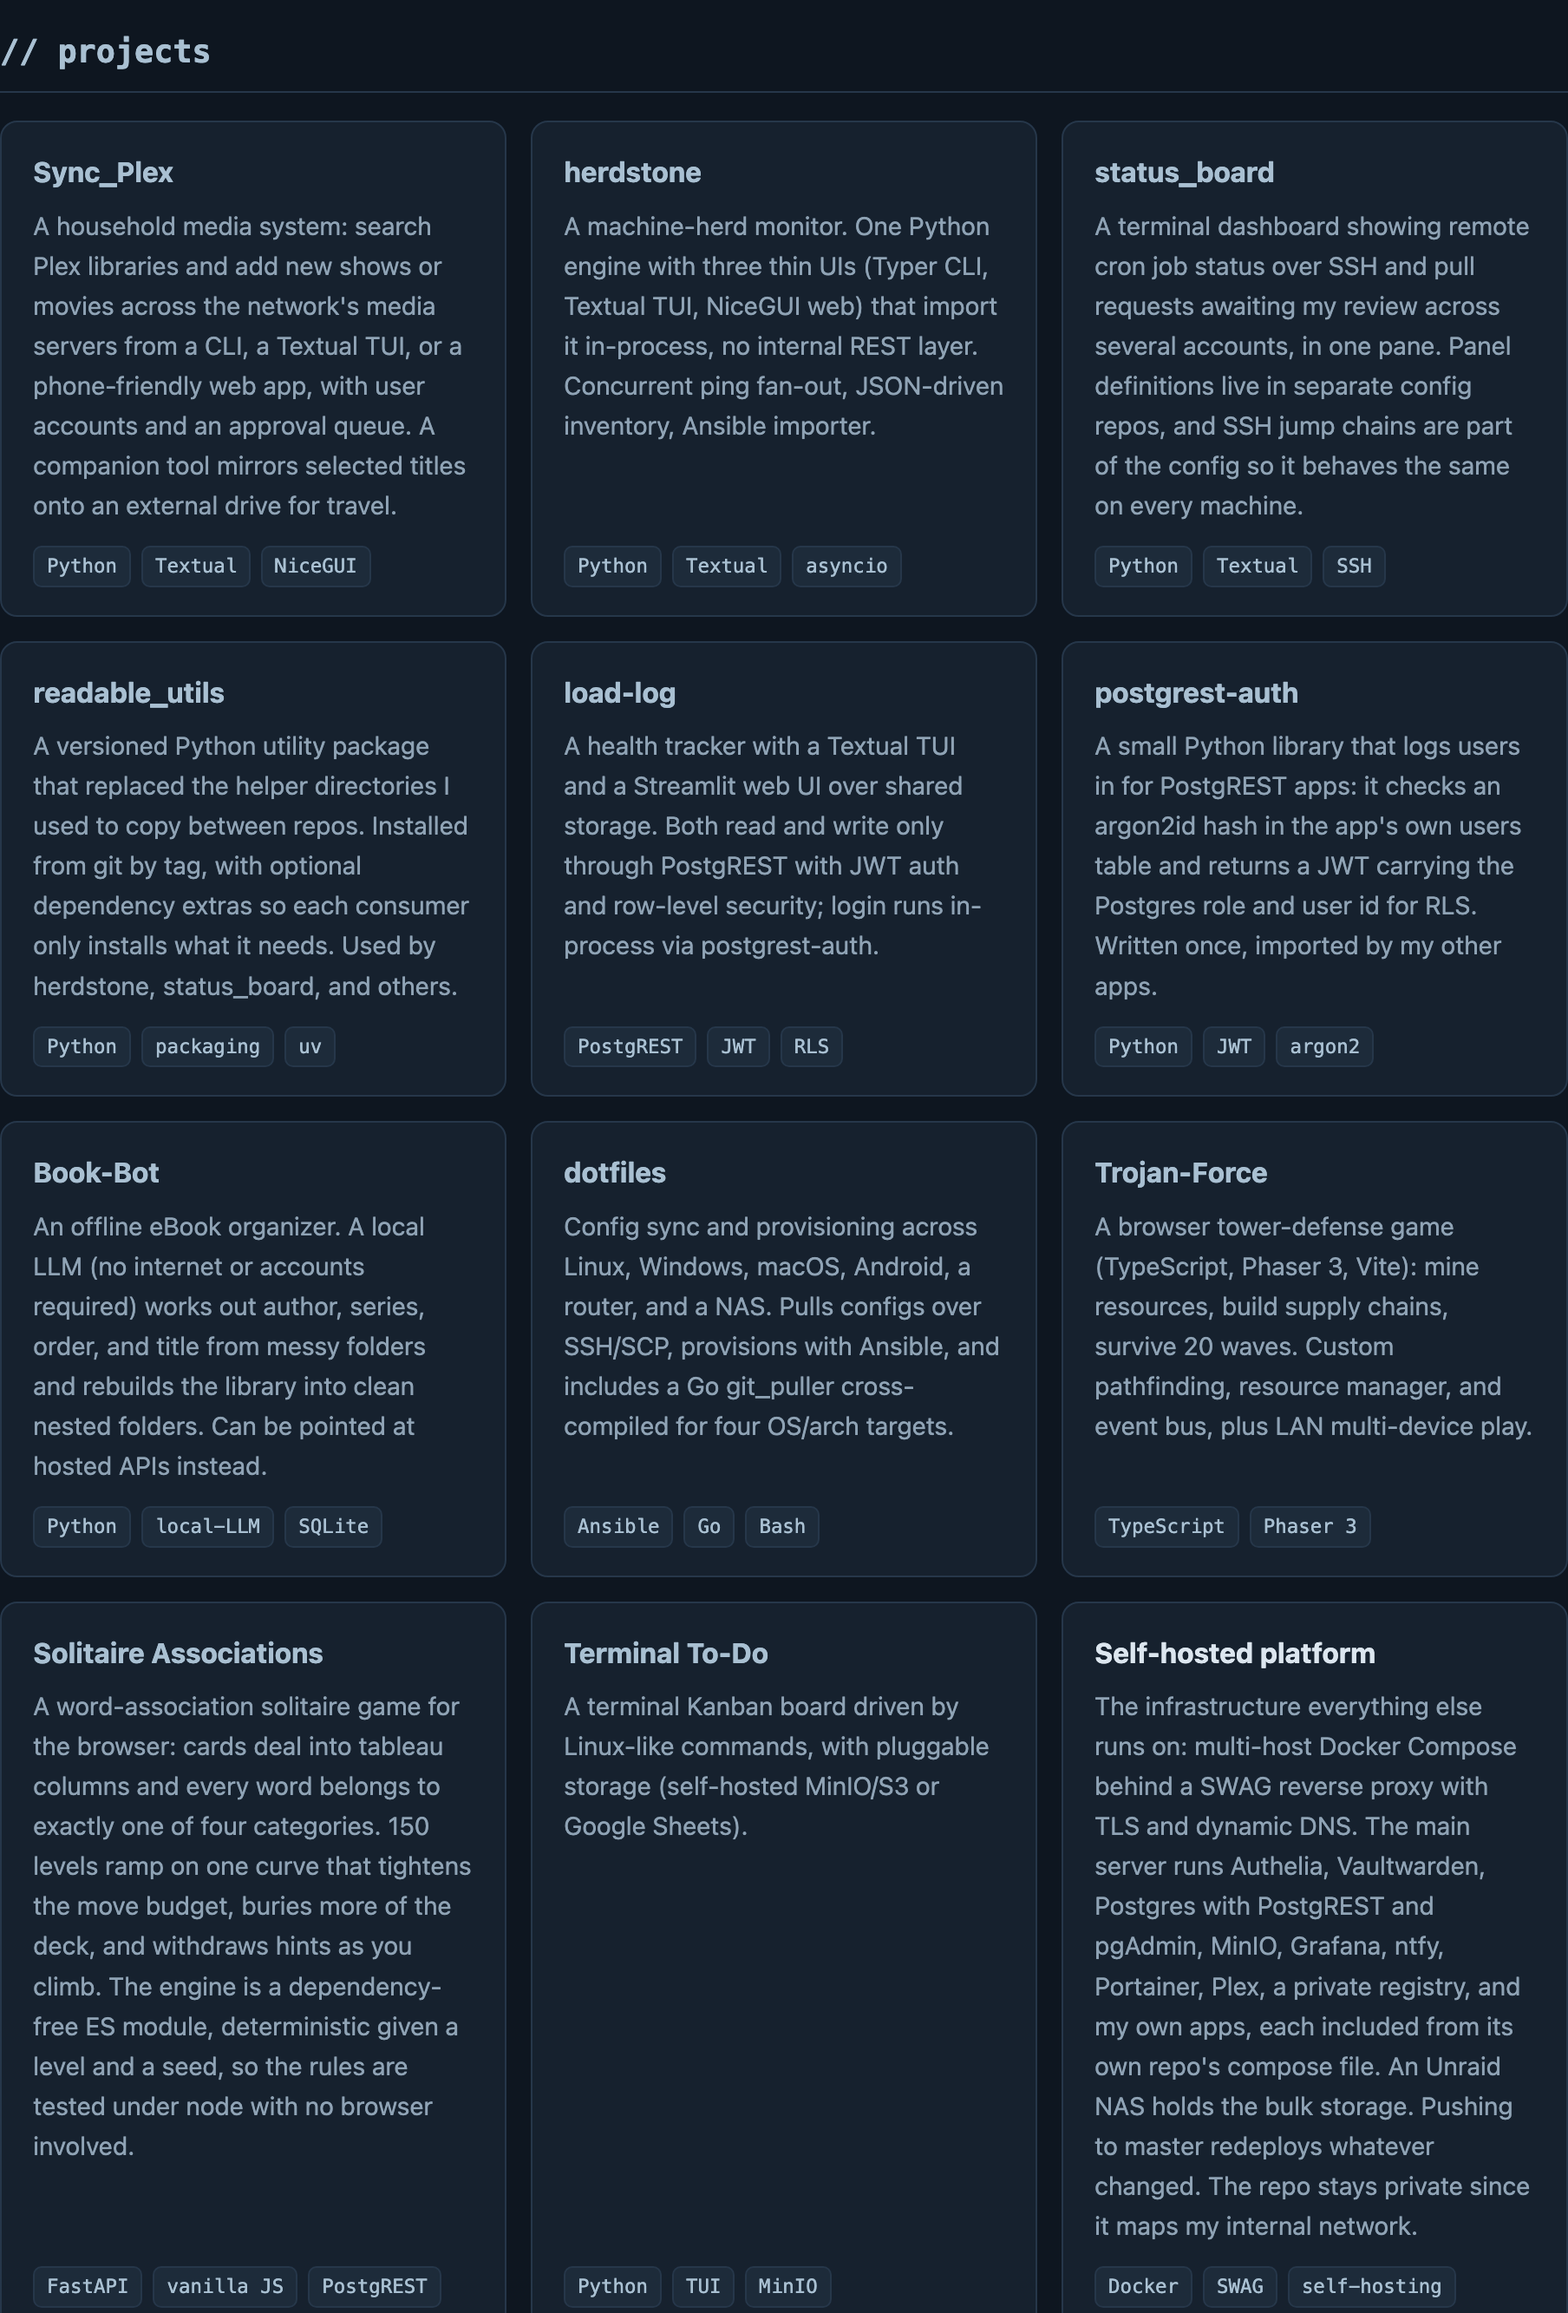
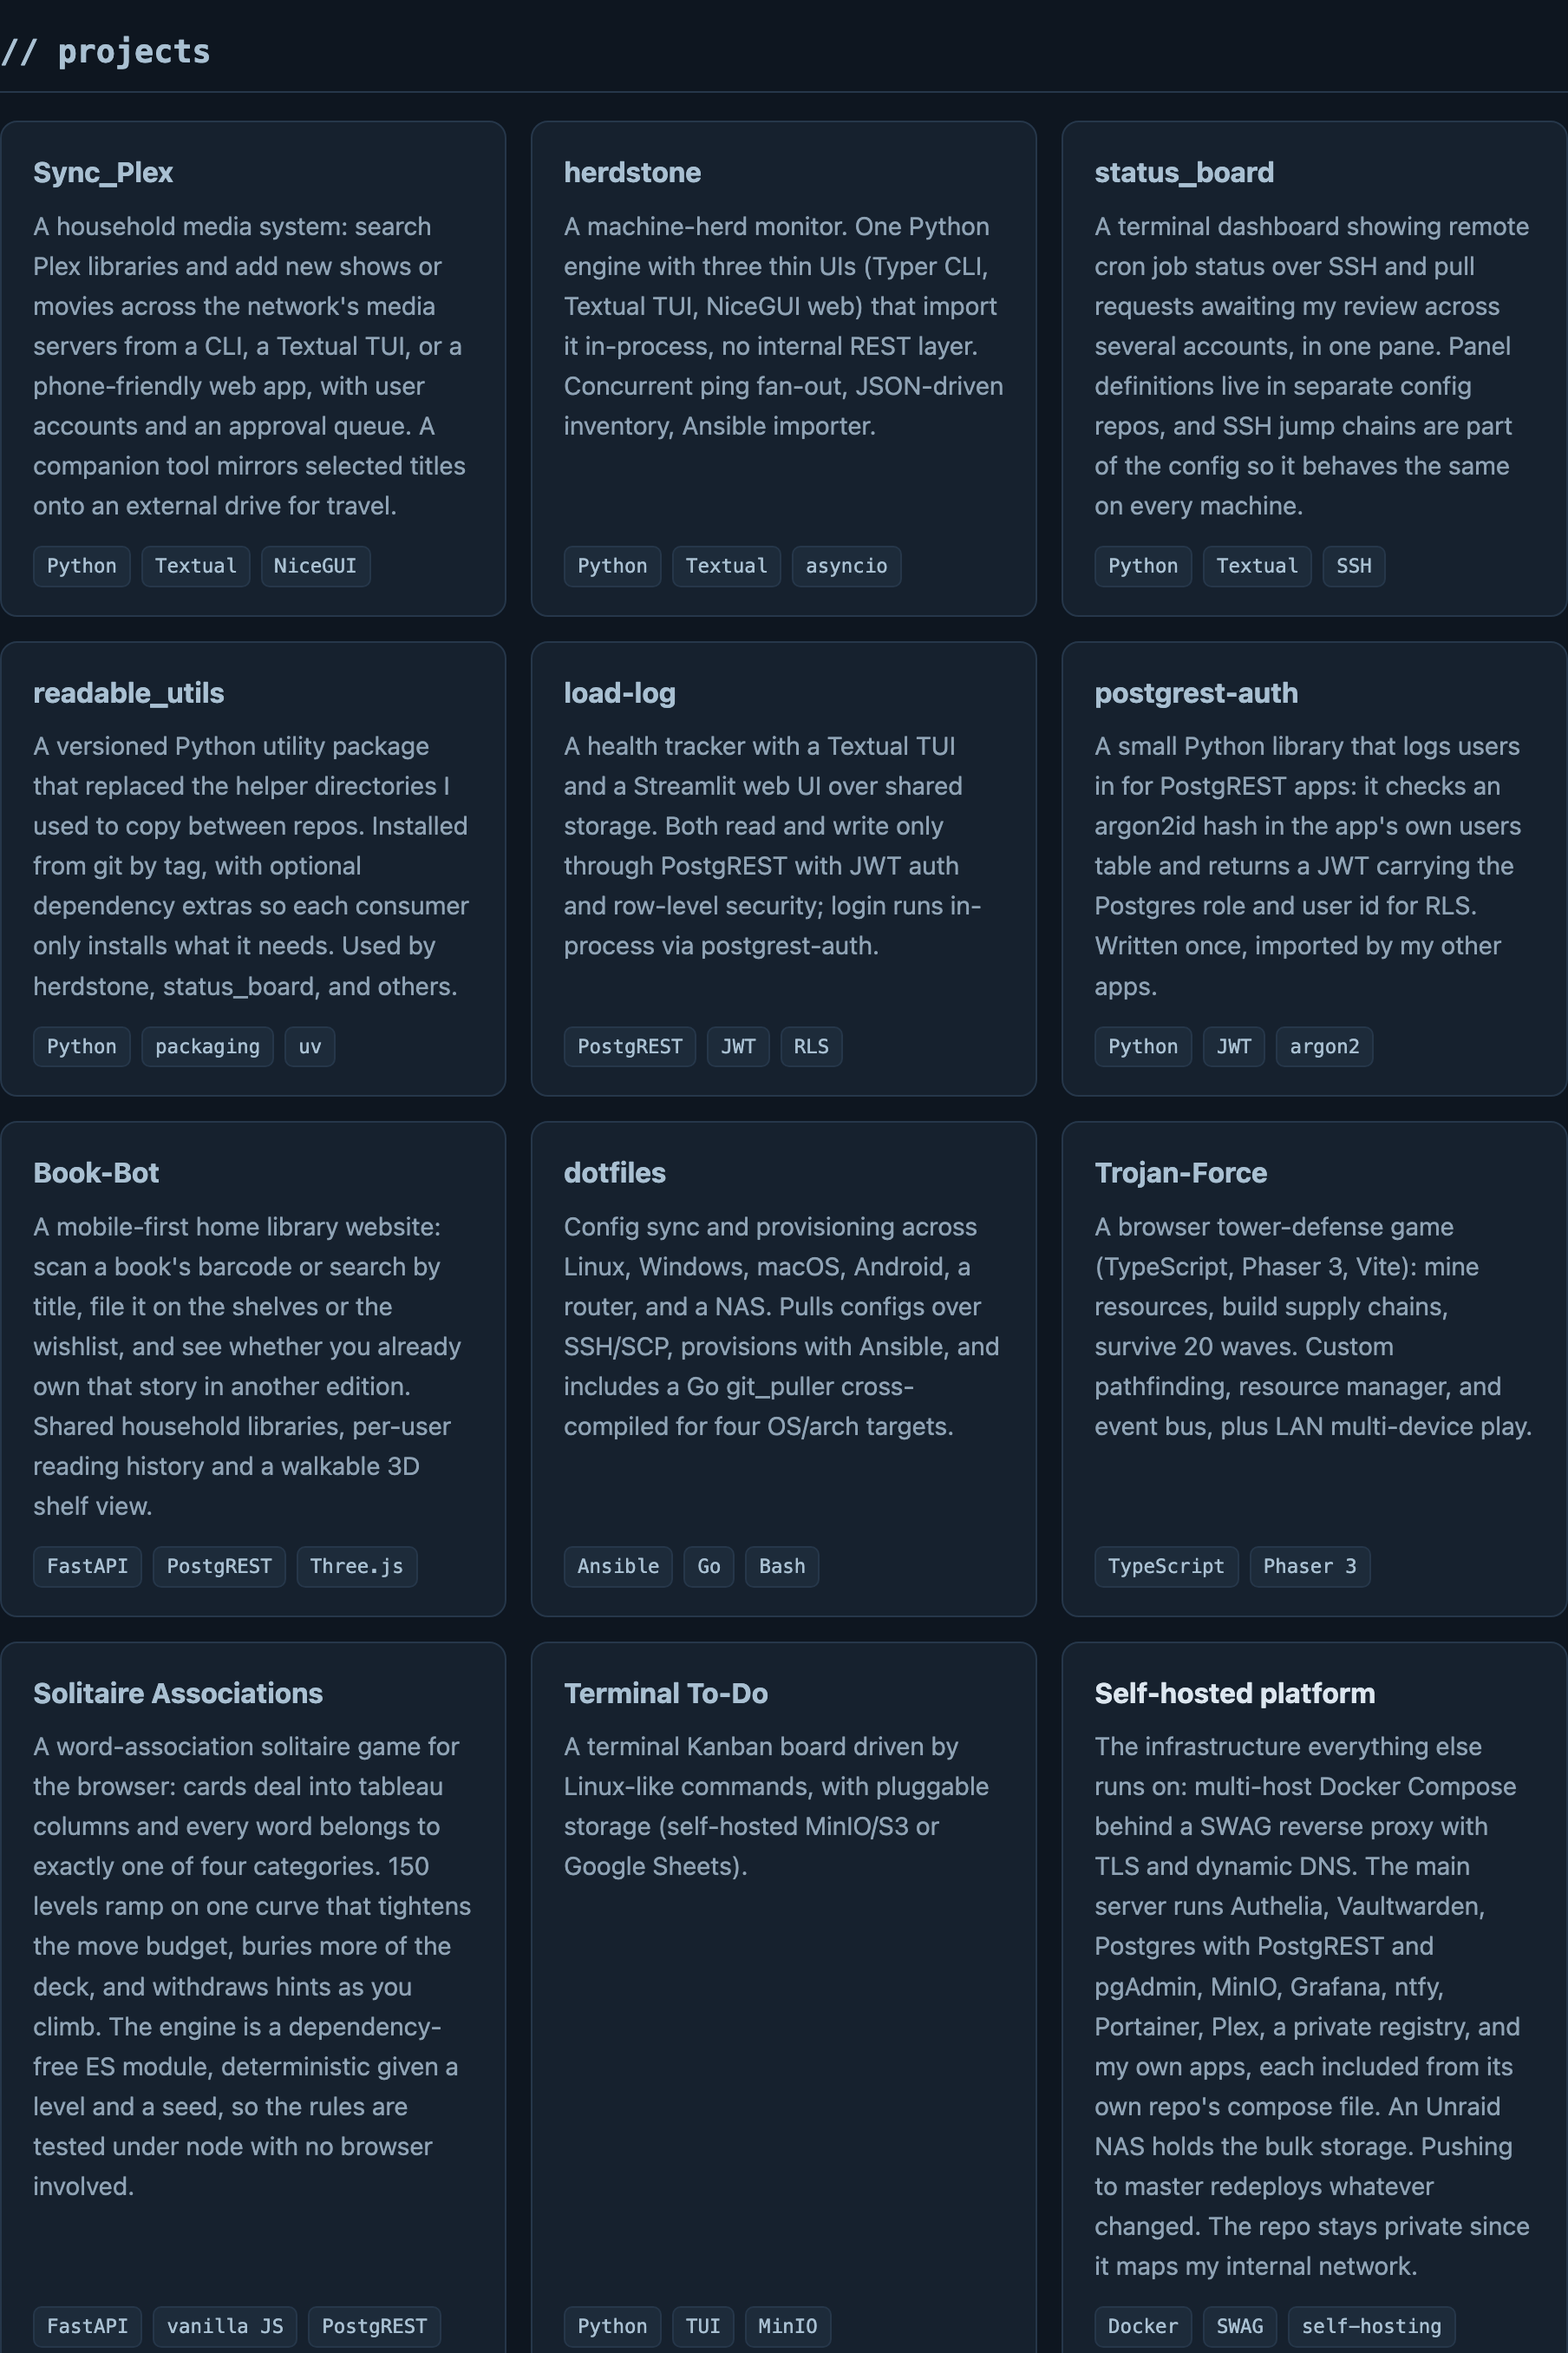
the book-bot card describes the library website it is now, alembic is gone from the skills, and the project cards screenshot is retaken

diff --git a/index.html b/index.html
@@ -517,7 +517,7 @@
             { id: "readable-utils", name: "readable_utils", url: "https://github.com/ReadableCode/readable_utils", blurb: "A versioned Python utility package that replaced the helper directories I used to copy between repos. Installed from git by tag, with optional dependency extras so each consumer only installs what it needs. Used by herdstone, status_board, and others.", tags: ["Python", "packaging", "uv"] },
             { id: "load-log", name: "load-log", url: "https://github.com/ReadableCode/load-log", blurb: "A health tracker with a Textual TUI and a Streamlit web UI over shared storage. Both read and write only through PostgREST with JWT auth and row-level security; login runs in-process via postgrest-auth.", tags: ["PostgREST", "JWT", "RLS"] },
             { id: "postgrest-auth", name: "postgrest-auth", url: "https://github.com/ReadableCode/postgrest-auth", blurb: "A small Python library that logs users in for PostgREST apps: it checks an argon2id hash in the app's own users table and returns a JWT carrying the Postgres role and user id for RLS. Written once, imported by my other apps.", tags: ["Python", "JWT", "argon2"] },
-            { id: "book-bot", name: "Book-Bot", url: "https://github.com/ReadableCode/Book-Bot", blurb: "An offline eBook organizer. A local LLM (no internet or accounts required) works out author, series, order, and title from messy folders and rebuilds the library into clean nested folders. Can be pointed at hosted APIs instead.", tags: ["Python", "local-LLM", "SQLite"] },
+            { id: "book-bot", name: "Book-Bot", url: "https://github.com/ReadableCode/Book-Bot", blurb: "A mobile-first home library website: scan a book's barcode or search by title, file it on the shelves or the wishlist, and see whether you already own that story in another edition. Shared household libraries, per-user reading history and a walkable 3D shelf view.", tags: ["FastAPI", "PostgREST", "Three.js"] },
             { id: "dotfiles", name: "dotfiles", url: "https://github.com/ReadableCode/dotfiles", blurb: "Config sync and provisioning across Linux, Windows, macOS, Android, a router, and a NAS. Pulls configs over SSH/SCP, provisions with Ansible, and includes a Go git_puller cross-compiled for four OS/arch targets.", tags: ["Ansible", "Go", "Bash"] },
             { id: "trojan-force", name: "Trojan-Force", url: "https://github.com/ReadableCode/Trojan-Force", blurb: "A browser tower-defense game (TypeScript, Phaser 3, Vite): mine resources, build supply chains, survive 20 waves. Custom pathfinding, resource manager, and event bus, plus LAN multi-device play.", tags: ["TypeScript", "Phaser 3"] },
             { id: "solitaire-associations", name: "Solitaire Associations", url: "https://github.com/ReadableCode/Solitaire_Associations", blurb: "A word-association solitaire game for the browser: cards deal into tableau columns and every word belongs to exactly one of four categories. 150 levels ramp on one curve that tightens the move budget, buries more of the deck, and withdraws hints as you climb. The engine is a dependency-free ES module, deterministic given a level and a seed, so the rules are tested under node with no browser involved.", tags: ["FastAPI", "vanilla JS", "PostgREST"] },
@@ -529,7 +529,7 @@
             ["Web / API", "FastAPI, React 19 + Vite, nginx, Streamlit, NiceGUI, Phaser 3"],
             ["TUI / CLI", "Textual, Typer, Rich, custom terminal apps"],
             ["Data", "pandas, DuckDB, warehouse connectors (Snowflake/Databricks/Looker), OCR/PDF"],
-            ["Databases / storage", "PostgreSQL + PostgREST, Alembic + RLS, SQLite, MinIO/S3, Vault"],
+            ["Databases / storage", "PostgreSQL + PostgREST, row-level security, SQLite, MinIO/S3, Vault"],
             ["Auth / security", "Authelia SSO, JWT (HS256), bcrypt/argon2, Postgres Row-Level Security"],
             ["Infra / DevOps", "Docker & multi-host Compose, SWAG + TLS + dynamic DNS, private registry, Grafana + ntfy, Ansible, k3s, Tailscale, WireGuard, push-to-master auto-deploy"],
             ["Automation / ops", "SSH automation (paramiko, jump hosts), scheduled backups (Postgres dumps, rsync offsite), Home Assistant"],

diff --git a/README.md b/README.md
@@ -70,7 +70,7 @@ Screenshots come from each project's own repo, taken against demo data.
   <tr>
     <td valign="top">
       <a href="https://github.com/ReadableCode/Book-Bot"><b>Book-Bot</b></a><br>
-      Offline eBook organizer: a local LLM sorts messy folders into a clean library.<br><br>
+      Home library website: scan a barcode to see whether you already own that book in any edition.<br><br>
       <img src="docs/screenshots/projects/book_bot.png" alt="Book-Bot shelves view">
     </td>
     <td valign="top">
